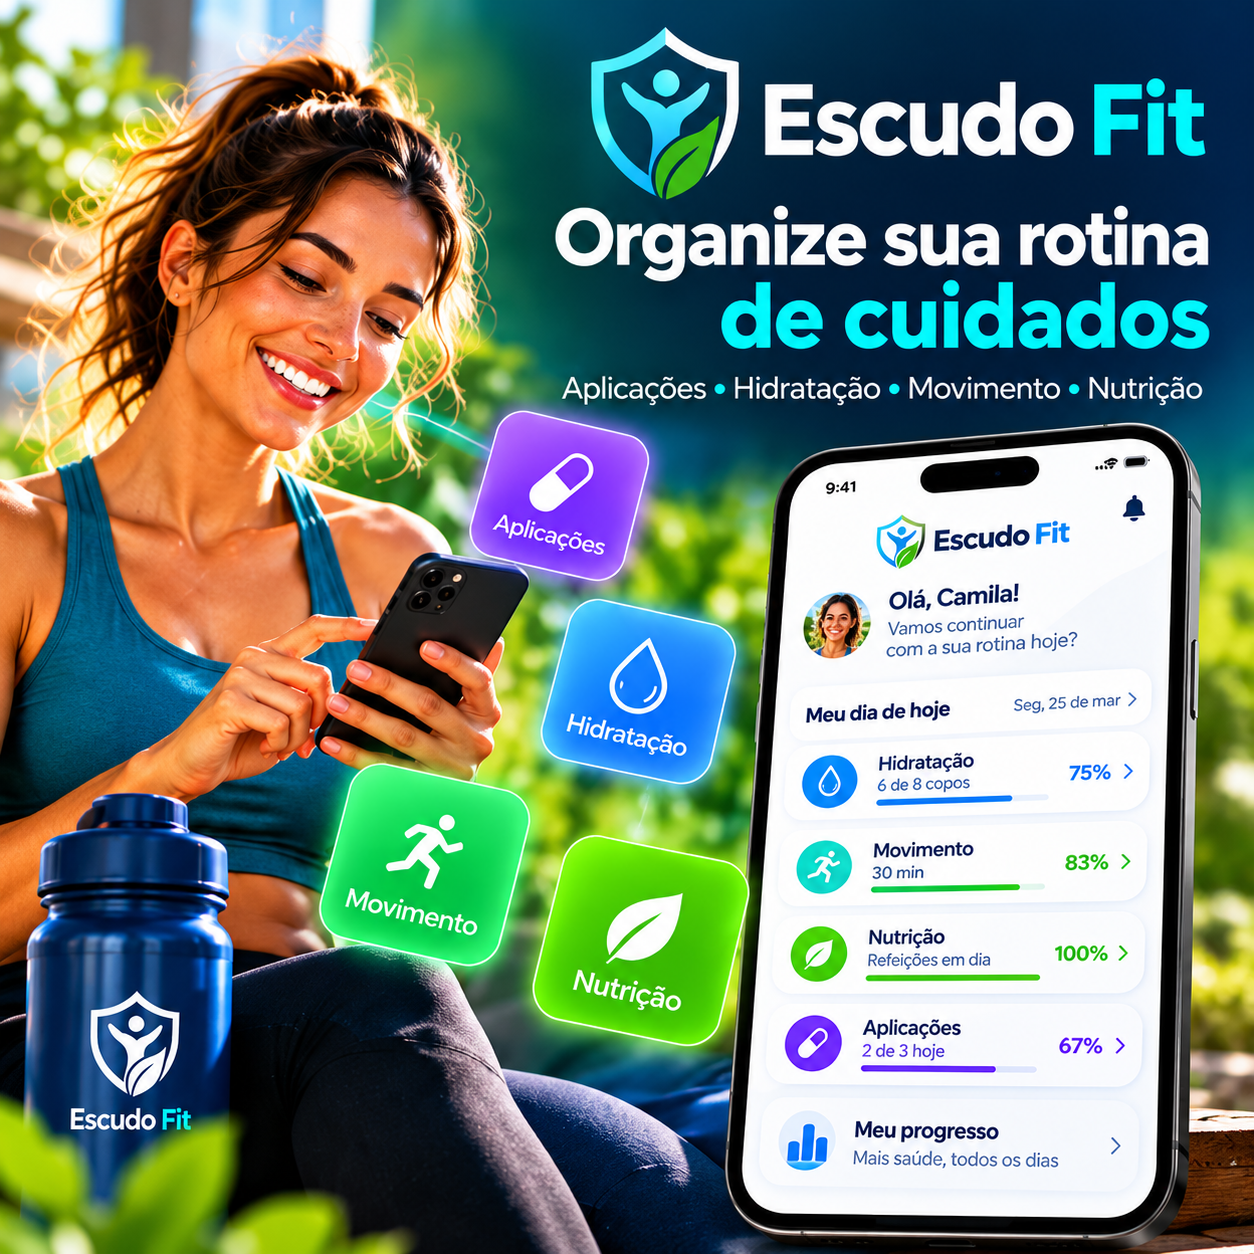
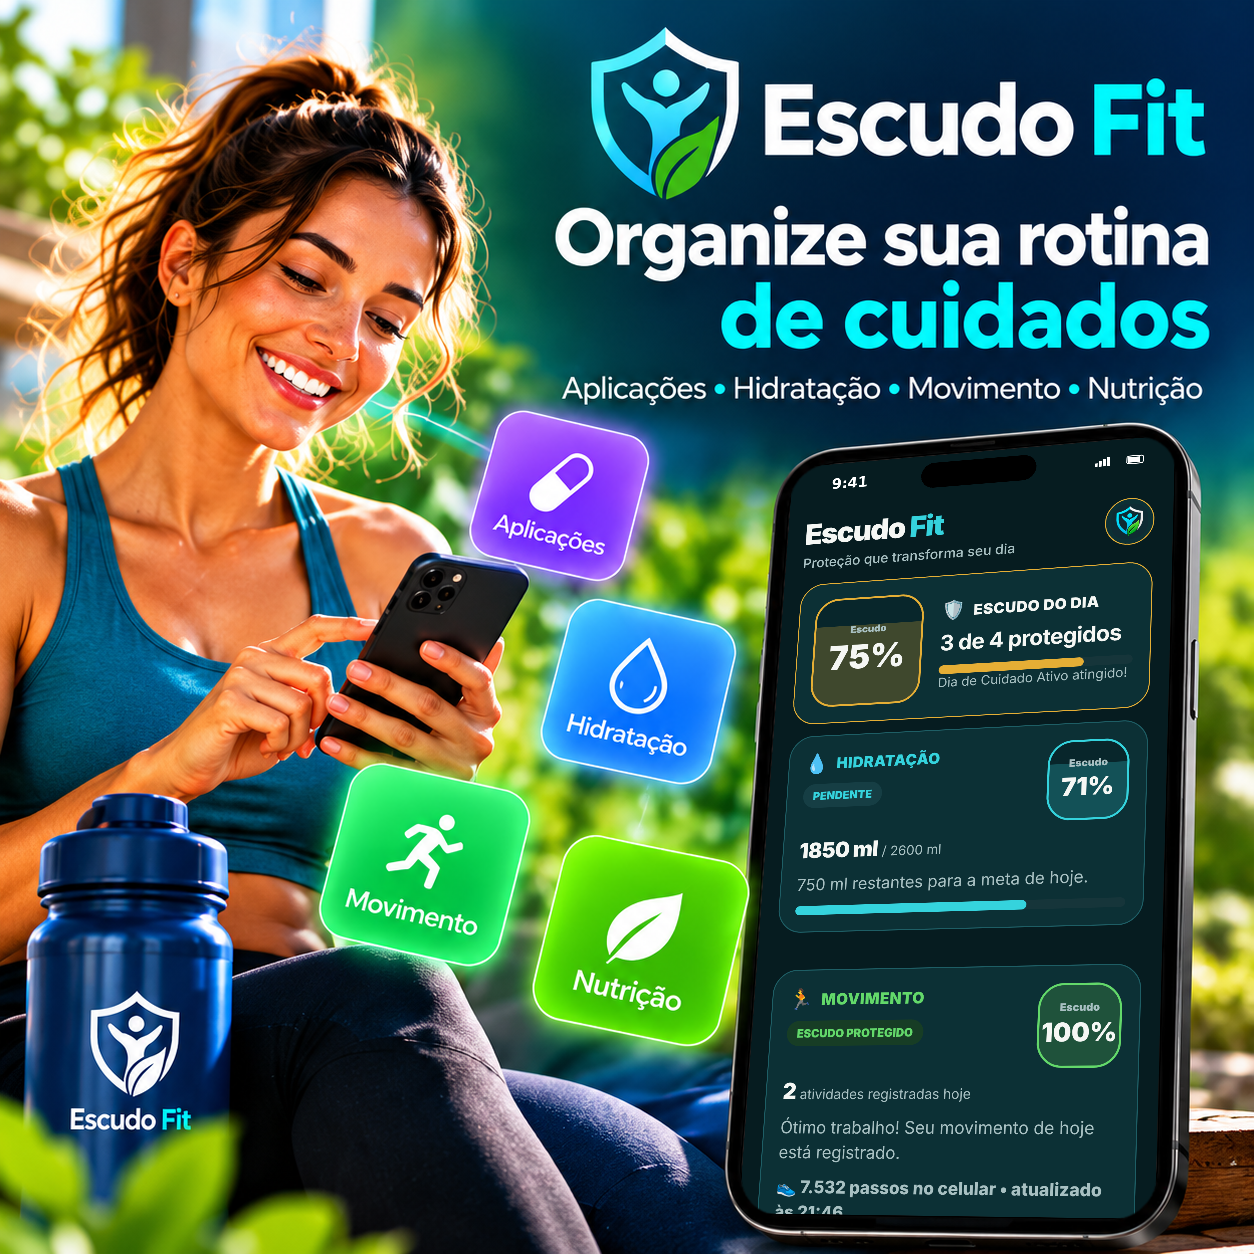
feat(web): carrossel com telas reais do app nos celulares das imagens
As seis imagens do carrossel mantêm as fotos, mas a tela de cada celular passa a
ser um print real do Escudo Fit (versão Web, com dados de exemplo e usuária
fictícia), aplicado em perspectiva. Folhas em primeiro plano preservadas.

Claude-Session: https://claude.ai/code/session_01CZQYHDcNFzAMxYP2shPvbC

Changed region(s): [[0.5909, 0.3421, 0.9641, 0.9952]]

diff --git a/app/index.html b/app/index.html
@@ -103,12 +103,12 @@
         <div class="campaign-carousel" role="region" aria-roledescription="carrossel" aria-label="Apresentação do Escudo Fit">
           <button type="button" class="campaign-arrow" data-campaign-prev aria-label="Imagem anterior">‹</button>
           <div class="campaign-track" id="campaignTrack" tabindex="0">
-          <figure class="campaign-slide"><img src="./campaign/escudo-fit-01-organize-rotina.png" alt="Escudo Fit — organize sua rotina de cuidados" loading="eager" decoding="async"></figure>
-          <figure class="campaign-slide"><img src="./campaign/escudo-fit-02-hidratacao.png" alt="Escudo Fit — hidratação" loading="lazy" decoding="async"></figure>
-          <figure class="campaign-slide"><img src="./campaign/escudo-fit-03-movimento.png" alt="Escudo Fit — movimento" loading="lazy" decoding="async"></figure>
-          <figure class="campaign-slide"><img src="./campaign/escudo-fit-04-nutricao.png" alt="Escudo Fit — nutrição" loading="lazy" decoding="async"></figure>
-          <figure class="campaign-slide"><img src="./campaign/escudo-fit-05-aplicacoes.png" alt="Escudo Fit — aplicações" loading="lazy" decoding="async"></figure>
-          <figure class="campaign-slide"><img src="./campaign/escudo-fit-06-meu-progresso.png" alt="Escudo Fit — meu progresso" loading="lazy" decoding="async"></figure>
+          <figure class="campaign-slide"><img src="./campaign/escudo-fit-01-organize-rotina.png?v=app-real-1" alt="Escudo Fit — organize sua rotina de cuidados" loading="eager" decoding="async"></figure>
+          <figure class="campaign-slide"><img src="./campaign/escudo-fit-02-hidratacao.png?v=app-real-1" alt="Escudo Fit — hidratação" loading="lazy" decoding="async"></figure>
+          <figure class="campaign-slide"><img src="./campaign/escudo-fit-03-movimento.png?v=app-real-1" alt="Escudo Fit — movimento" loading="lazy" decoding="async"></figure>
+          <figure class="campaign-slide"><img src="./campaign/escudo-fit-04-nutricao.png?v=app-real-1" alt="Escudo Fit — nutrição" loading="lazy" decoding="async"></figure>
+          <figure class="campaign-slide"><img src="./campaign/escudo-fit-05-aplicacoes.png?v=app-real-1" alt="Escudo Fit — aplicações" loading="lazy" decoding="async"></figure>
+          <figure class="campaign-slide"><img src="./campaign/escudo-fit-06-meu-progresso.png?v=app-real-1" alt="Escudo Fit — meu progresso" loading="lazy" decoding="async"></figure>
           </div>
           <button type="button" class="campaign-arrow" data-campaign-next aria-label="Próxima imagem">›</button>
         </div>

diff --git a/app/sw.js b/app/sw.js
@@ -1,4 +1,4 @@
-const CACHE='escudo-fit-web-v45-campaign-ens-v1';
+const CACHE='escudo-fit-web-v45-carousel-app-real-v1';
 const ASSETS=[
   './',
   './index.html',
@@ -14,12 +14,12 @@ const ASSETS=[
   './brand-mark-approved-v44.png',
   './brand-splash-v45.png',
   './icon-maskable-v45.png',
-  './campaign/escudo-fit-01-organize-rotina.png',
-  './campaign/escudo-fit-02-hidratacao.png',
-  './campaign/escudo-fit-03-movimento.png',
-  './campaign/escudo-fit-04-nutricao.png',
-  './campaign/escudo-fit-05-aplicacoes.png',
-  './campaign/escudo-fit-06-meu-progresso.png',
+  './campaign/escudo-fit-01-organize-rotina.png?v=app-real-1',
+  './campaign/escudo-fit-02-hidratacao.png?v=app-real-1',
+  './campaign/escudo-fit-03-movimento.png?v=app-real-1',
+  './campaign/escudo-fit-04-nutricao.png?v=app-real-1',
+  './campaign/escudo-fit-05-aplicacoes.png?v=app-real-1',
+  './campaign/escudo-fit-06-meu-progresso.png?v=app-real-1',
   './manifest.webmanifest',
   './icon.svg'
 ];
